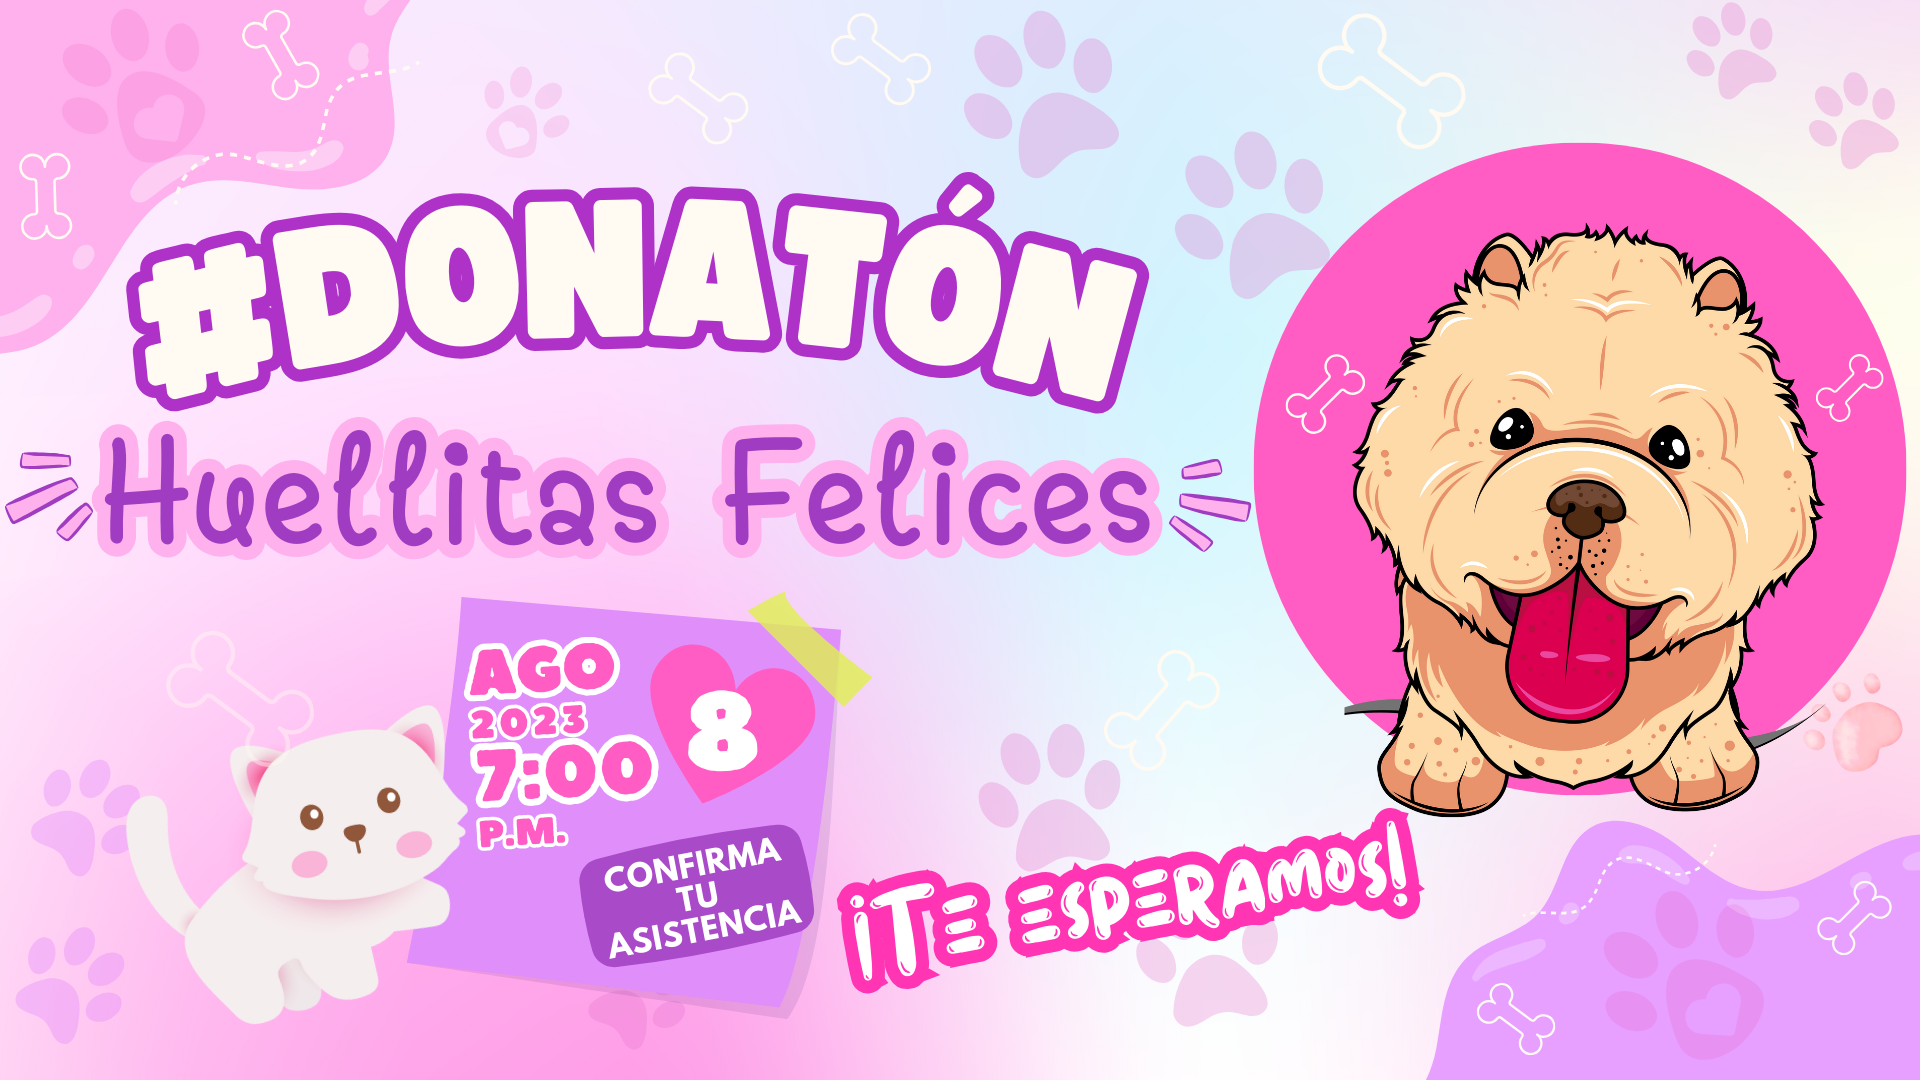
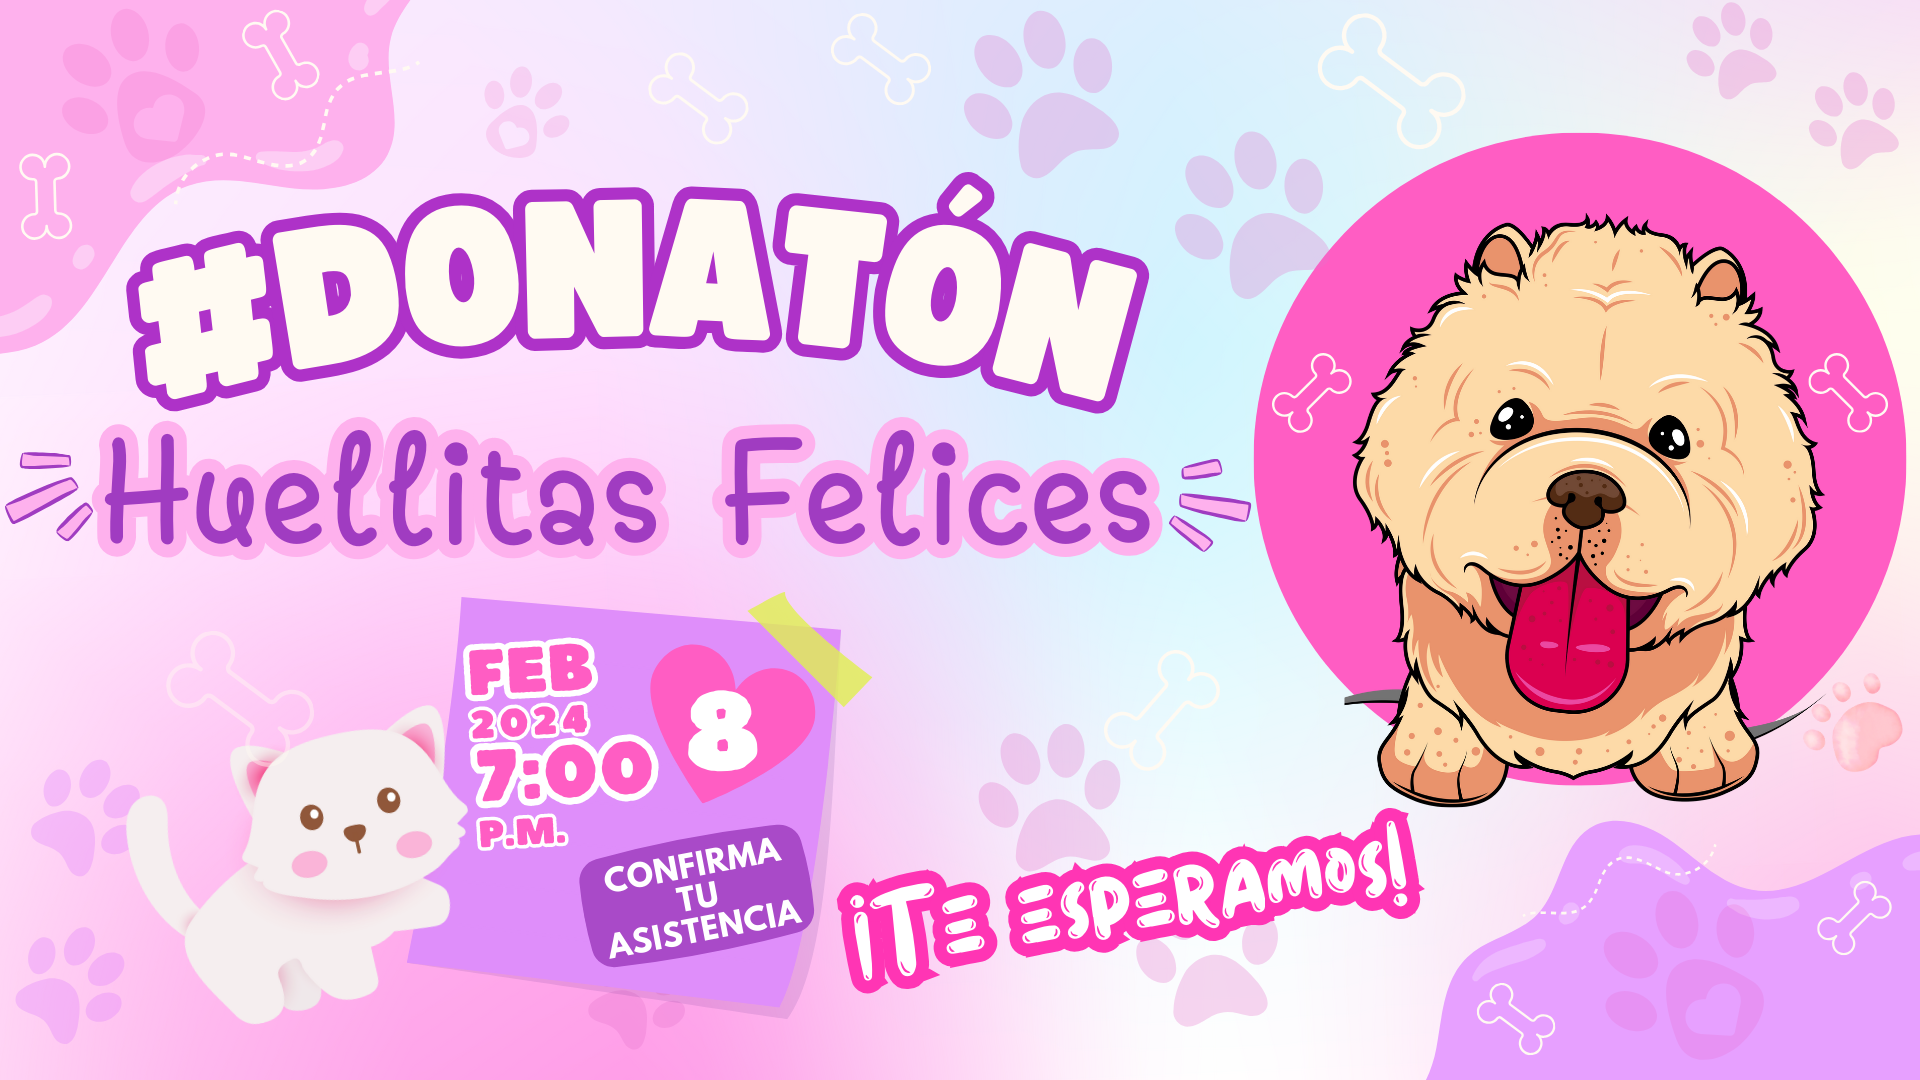
cambiando imagen cuando cambia a español

diff --git a/src/home.js b/src/home.js
@@ -47,3 +47,36 @@ document.addEventListener('DOMContentLoaded', function() {
     return age;
   }
 });
+
+// Detectar cuando el traductor está activo
+document.addEventListener('DOMContentLoaded', function() {
+  // Función para detectar cambios de idioma
+  function detectLanguageChange() {
+    // Obtener el texto original del documento
+    const originalText = document.body.textContent;
+
+    // Observar los cambios en el texto del documento
+    const observer = new MutationObserver(function(mutations) {
+      mutations.forEach(function(mutation) {
+        // Verificar si el texto del documento ha cambiado
+        if (mutation.type === 'characterData') {
+          const newText = document.body.textContent;
+          // Verificar si el texto ha sido traducido
+          if (originalText !== newText) {
+            // Cambiar la imagen a la versión en español
+            document.getElementById('flyer-img').src = 'images/flyer_es.png';
+          } else {
+            // Cambiar la imagen a la versión original (inglés)
+            document.getElementById('flyer-img').src = 'images/flyer.png';
+          }
+        }
+      });
+    });
+
+    // Configurar el observador para observar cambios en el texto del documento
+    observer.observe(document.body, { subtree: true, characterData: true });
+  }
+
+  // Llamar a la función para detectar cambios de idioma
+  detectLanguageChange();
+});

diff --git a/src/index.html b/src/index.html
@@ -30,7 +30,7 @@
     <main class="main-home">
       <section class ="seccion-bienvenida">
       <figure class="campaña">
-        <img src="images/flyer.png" width="100%" alt="imagen-campaña">
+        <img src="images/flyer.png" id="flyer-img" width="100%" alt="imagen-campaña">
       </figure>
       <article class="quienes-somos">
         <br>
